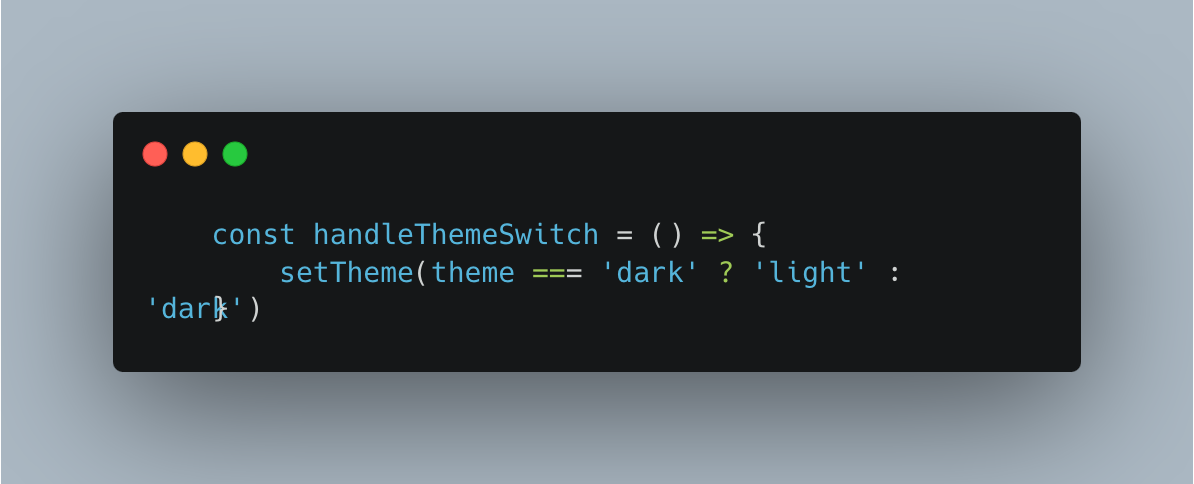
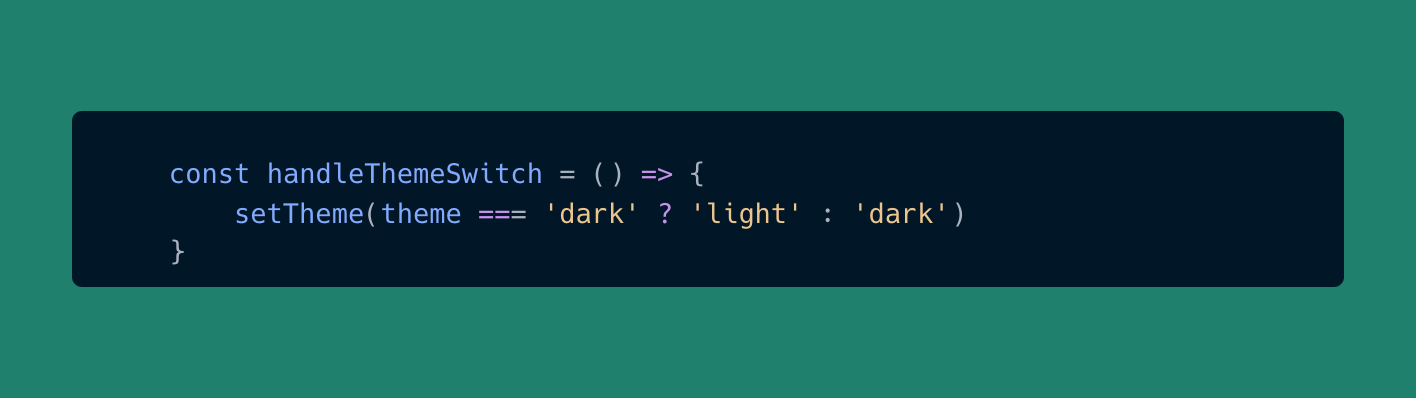
readme
update images

diff --git a/src/pages/Home.jsx b/src/pages/Home.jsx
@@ -45,7 +45,7 @@ const Home = () => {
         } catch (error) {
             console.error(error)
         }
-      };
+    };
 
     return (
         <div className='bg-gray-100 dark:bg-gray-800 dark:tex-white'>

diff --git a/README.md b/README.md
@@ -8,7 +8,7 @@ This project was created using react framework and tailwindcss to list all the c
 # Function that i created
 
 ### `List all countries`
-![All-countries](get_all_countries.png)
+![All-countries](all_countries.png)
 
 ### `Search countries`
 ![Search-countries](search_countries.png)
